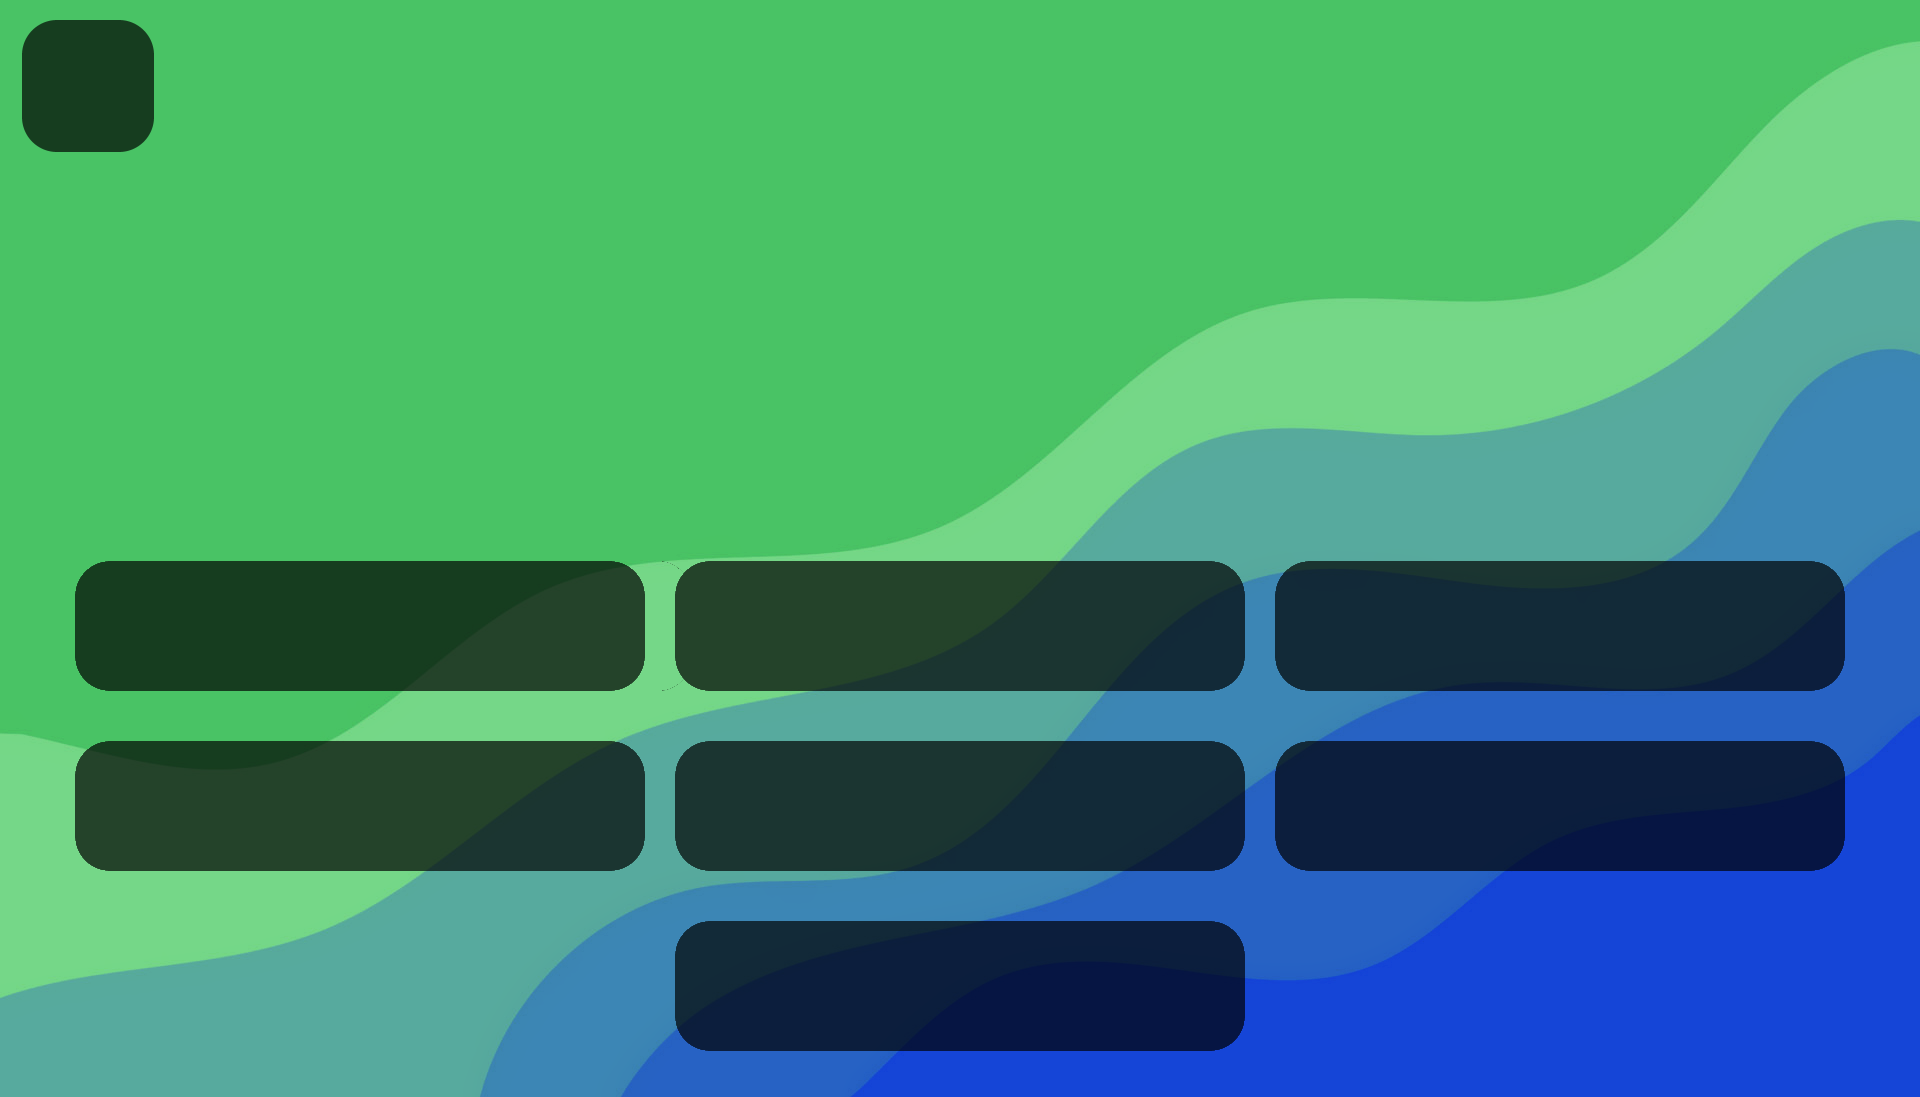
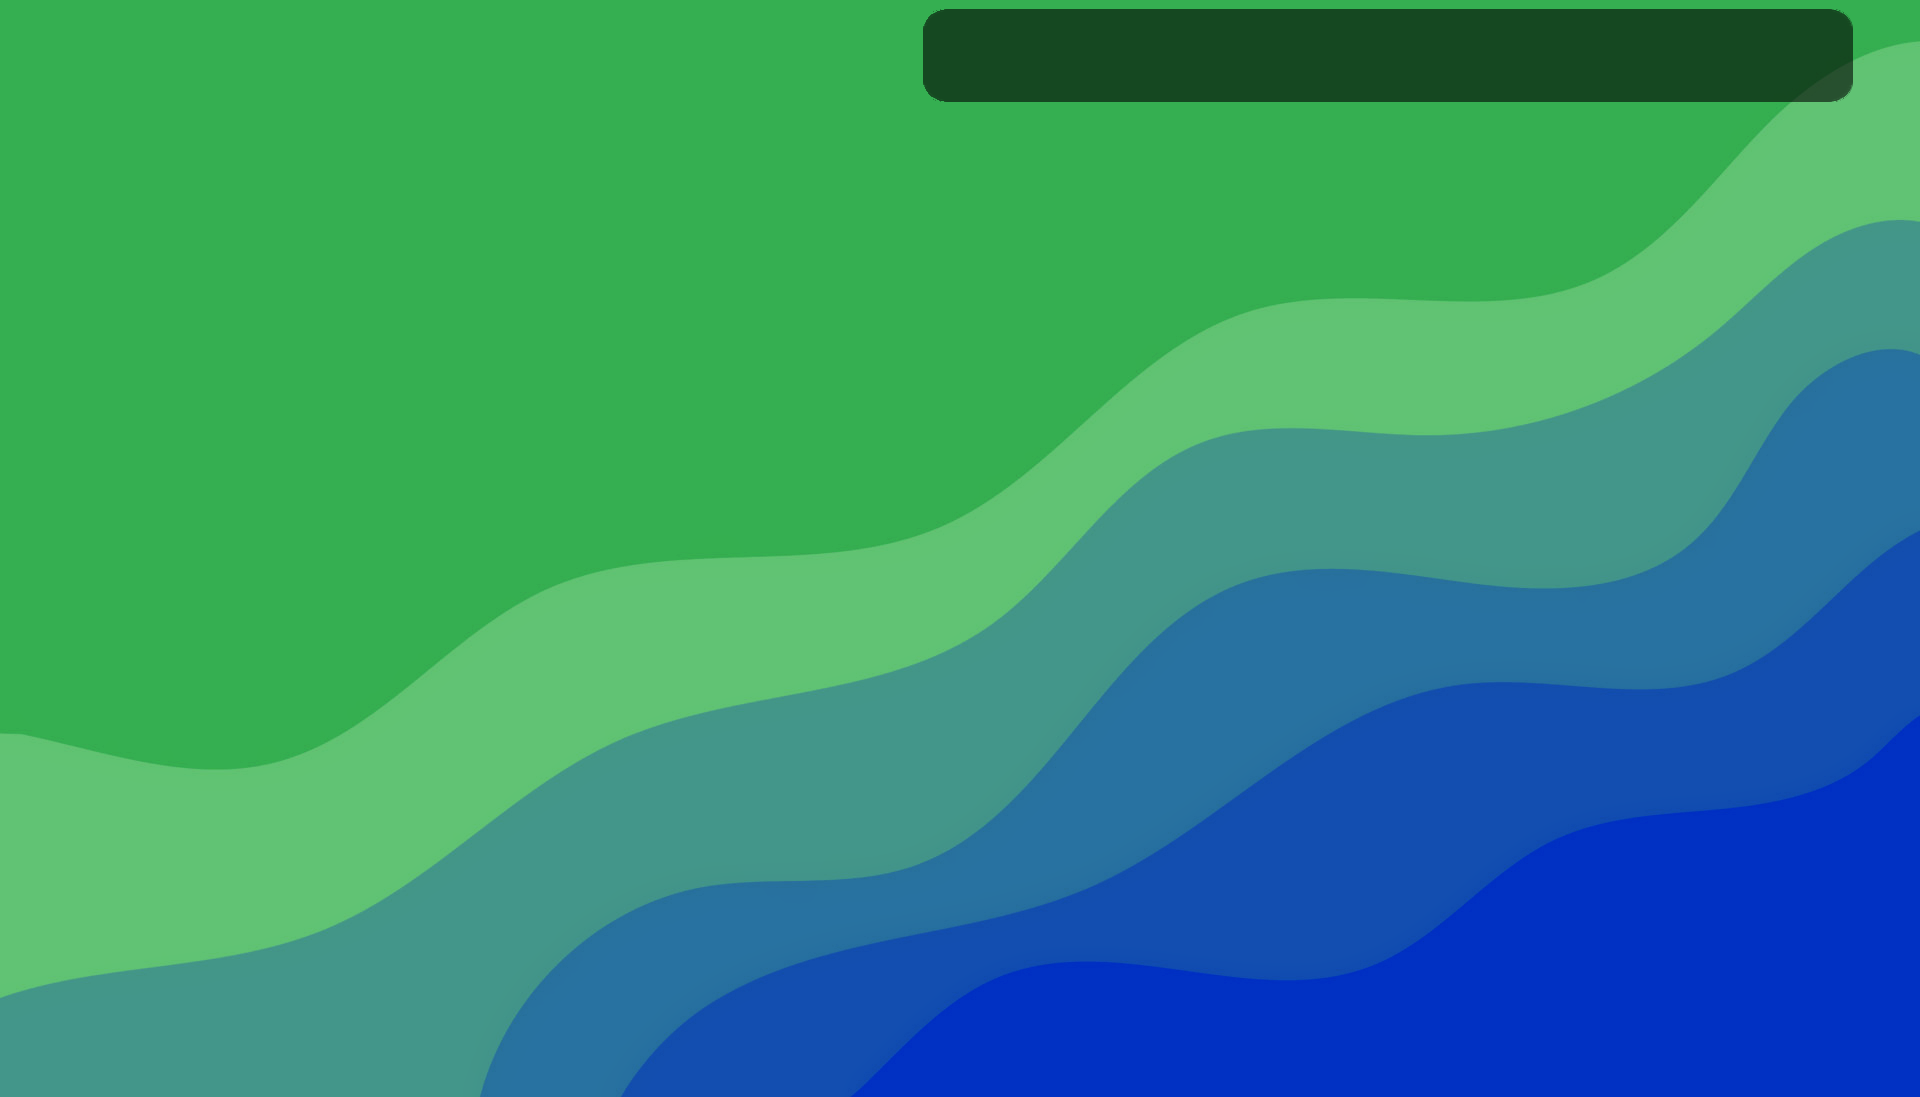
Updated leaderboard

diff --git a/Commands/leaderboard.js b/Commands/leaderboard.js
@@ -15,7 +15,7 @@ const WHITE = '#ffffff'
 registerFont('./Fonts/Signika-Bold.ttf', { family: 'Signika' })
 const FONT_FAMILY_SIGNIKA = 'Signika'
 
-const canvas = new Canvas(1920, 1097)
+const canvas = new Canvas(500, 700)
 const context = canvas.getContext("2d")
 
 const statsSchema = require('../Models/statsSchema')
@@ -105,7 +105,7 @@ module.exports = {
                 // So that it will not exceed the memory limit
                 const sort = { maxStreak: -1 }
                 const results = await statsSchema.find({ userID: { $ne: '333664530582208513' } }).sort(sort).limit(10)
-                await getTopStreak(client, interaction, results, canvas, context, actionRowEnabled)
+                await getTopStreakBest(client, interaction, results, canvas, context, actionRowEnabled)
                 streakBestLeaderboard = false
             }
             if (streakCurrentLeaderboard) {
@@ -115,7 +115,7 @@ module.exports = {
                 // So that it will not exceed the memory limit
                 const sort = { currentStreak: -1 }
                 const results = await statsSchema.find({ userID: { $ne: '333664530582208513' } }).sort(sort).limit(10)
-                await getTopStreak(client, interaction, results, canvas, context, actionRowEnabled)
+                await getTopStreakCurrent(client, interaction, results, canvas, context, actionRowEnabled)
                 streakCurrentLeaderboard = false
             }
         })
@@ -127,49 +127,76 @@ module.exports = {
 
 async function getTopWins(client, interaction, results, canvas, context, actionRow) {
     let background = await loadImage('./Images/background_leaderboard.png')
-    context.drawImage(background, 0, 0, 1920, 1097)
+    context.drawImage(background, -400, 0, 900, 700) // x = -400 offset
+    // emoji
     let trophy = await loadImage('./Images/trophy.png')
-    context.drawImage(trophy, 34, 29, 110, 110)
+    context.drawImage(trophy, canvas.width / 2 + 95, canvas.height / 2 - 335, 40, 40)
+    context.drawImage(trophy, canvas.width / 2 - 130, canvas.height / 2 - 335, 40, 40)
+    // title
+    context.fillStyle = WHITE
+    context.textAlign = "center"
+    context.font = `bold 35px ${FONT_FAMILY_SIGNIKA}`
+    context.fillText('TOP WINS', canvas.width / 2, canvas.height / 2 - 305)
+    // top players
     let totalPlayers = await statsSchema.count()
-    let count = 3, x = 1920 / 2 - 600, y = 1097 / 2 + 90
+    let x = canvas.width / 2 - 190, y = canvas.height / 2 - 20
     for (let i = 0; i < results.length; ++i) {
-        context.fillStyle = WHITE
-        context.textAlign = "center"
-        context.font = `bold 65px ${FONT_FAMILY_SIGNIKA}`
+        context.textAlign = "left"
+        context.font = `bold 35px ${FONT_FAMILY_SIGNIKA}`
         if (i === 10) {
             break
         }
         let id = results[i].userID
         const fetchUser = await client.users.fetch(id)
         if (i === 0) {
-            context.fillText(`${fetchUser.username}`, canvas.width / 2, canvas.height / 2 - 480)
+            // username
+            context.fillText(`${fetchUser.username}`, canvas.width / 2 - 120, canvas.height / 2 - 220)
+            // games won
+            context.font = `bold 25px ${FONT_FAMILY_SIGNIKA}`
+            context.textAlign = "right"
+            context.fillText(`${results[i].gamesWon} wins`, canvas.width - 30, canvas.height / 2 - 220)
+            // medal
             let image = await loadImage('./Images/1st_place_medal.png')
-            context.drawImage(image, canvas.width / 2 - 100, canvas.height / 2 - 450, 200, 200)
+            context.drawImage(image, canvas.width / 2 - 180, canvas.height / 2 - 255, 50, 50)
             continue
         }
         if (i === 1) {
-            context.fillText(`${fetchUser.username}`, canvas.width / 2 - 500, canvas.height / 2 - 280)
+            // username
+            context.fillText(`${fetchUser.username}`, canvas.width / 2 - 120, canvas.height / 2 - 170)
+            // games won
+            context.font = `bold 25px ${FONT_FAMILY_SIGNIKA}`
+            context.textAlign = "right"
+            context.fillText(`${results[i].gamesWon} wins`, canvas.width - 30, canvas.height / 2 - 170)
+            // medal
             let image = await loadImage('./Images/2nd_place_medal.png')
-            context.drawImage(image, canvas.width / 2 - 600, canvas.height / 2 - 250, 200, 200)
+            context.drawImage(image, canvas.width / 2 - 180, canvas.height / 2 - 205, 50, 50)
             continue
         }
         if (i === 2) {
-            context.fillText(`${fetchUser.username}`, canvas.width / 2 + 500, canvas.height / 2 - 280)
+            // username
+            context.fillText(`${fetchUser.username}`, canvas.width / 2 - 120, canvas.height / 2 - 120)
+            // games won
+            context.font = `bold 25px ${FONT_FAMILY_SIGNIKA}`
+            context.textAlign = "right"
+            context.fillText(`${results[i].gamesWon} wins`, canvas.width - 30, canvas.height / 2 - 120)
+            // medal
             let image = await loadImage('./Images/3rd_place_medal.png')
-            context.drawImage(image, canvas.width / 2 + 400, canvas.height / 2 - 250, 200, 200)
+            context.drawImage(image, canvas.width / 2 - 180, canvas.height / 2 - 155, 50, 50)
             continue
         }
-        count++
-        if (count === 10) {
-            x += 600
-        }
-        context.font = `bold 50px ${FONT_FAMILY_SIGNIKA}`
+        context.font = `bold 27px ${FONT_FAMILY_SIGNIKA}` // for top 4...10
+        // username
         context.fillText(`${fetchUser.username}`, x, y)
-        x += 600
-        if (count % 3 == 0) { // decrease height
-            y += 180
-            x = 1920 / 2 - 600
+        if (i == 9) {
+            context.fillText(`${i + 1}.`, 10, y)
+        } else {
+            context.fillText(`${i + 1}.`, 25, y)
         }
+        // games won
+        context.font = `bold 25px ${FONT_FAMILY_SIGNIKA}`
+        context.textAlign = "right"
+        context.fillText(`${results[i].gamesWon} wins`, canvas.width - 30, y)
+        y += 55
     }
     const file = new AttachmentBuilder(await canvas.toBuffer(), { name: 'leaderboard.png' })
     const embed = new EmbedBuilder()
@@ -182,51 +209,165 @@ async function getTopWins(client, interaction, results, canvas, context, actionR
     return await interaction.editReply({ content: '', embeds: [embed], files: [file], components: [actionRow] })
 }
 
-async function getTopStreak(client, interaction, results, canvas, context, actionRow) {
+async function getTopStreakBest(client, interaction, results, canvas, context, actionRow) {
     let background = await loadImage('./Images/background_leaderboard.png')
-    context.drawImage(background, 0, 0, 1920, 1097)
+    context.drawImage(background, -400, 0, 900, 700) // x = -400 offset
+    // emoji
     let fire = await loadImage('./Images/fire_color.png')
-    context.drawImage(fire, 34, 29, 110, 110)
+    let sparkles = await loadImage('./Images/sparkles_color.png')
+    context.drawImage(fire, canvas.width / 2 + 140, canvas.height / 2 - 335, 40, 40)
+    context.drawImage(fire, canvas.width / 2 - 175, canvas.height / 2 - 335, 40, 40)
+    context.drawImage(sparkles, canvas.width / 2 - 147, canvas.height / 2 - 340, 20, 20)
+    context.drawImage(sparkles, canvas.width / 2 + 168, canvas.height / 2 - 340, 20, 20)
+    // title
+    context.fillStyle = WHITE
+    context.textAlign = "center"
+    context.font = `bold 33px ${FONT_FAMILY_SIGNIKA}`
+    context.fillText('TOP BEST STREAK', canvas.width / 2, canvas.height / 2 - 305)
+    // top players
     let totalPlayers = await statsSchema.count()
-    let count = 3, x = 1920 / 2 - 600, y = 1097 / 2 + 90
+    let x = canvas.width / 2 - 190, y = canvas.height / 2 - 20
     for (let i = 0; i < results.length; ++i) {
-        context.fillStyle = WHITE
-        context.textAlign = "center"
-        context.font = `bold 65px ${FONT_FAMILY_SIGNIKA}`
+        context.textAlign = "left"
+        context.font = `bold 35px ${FONT_FAMILY_SIGNIKA}`
         if (i === 10) {
             break
         }
         let id = results[i].userID
         const fetchUser = await client.users.fetch(id)
         if (i === 0) {
-            context.fillText(`${fetchUser.username}`, canvas.width / 2, canvas.height / 2 - 480)
+            // username
+            context.fillText(`${fetchUser.username}`, canvas.width / 2 - 120, canvas.height / 2 - 220)
+            // max streak
+            context.font = `bold 25px ${FONT_FAMILY_SIGNIKA}`
+            context.textAlign = "right"
+            context.fillText(`${results[i].maxStreak} streak`, canvas.width - 30, canvas.height / 2 - 220)
+            // medal
             let image = await loadImage('./Images/1st_place_medal.png')
-            context.drawImage(image, canvas.width / 2 - 100, canvas.height / 2 - 450, 200, 200)
+            context.drawImage(image, canvas.width / 2 - 180, canvas.height / 2 - 255, 50, 50)
             continue
         }
         if (i === 1) {
-            context.fillText(`${fetchUser.username}`, canvas.width / 2 - 500, canvas.height / 2 - 280)
+            // username
+            context.fillText(`${fetchUser.username}`, canvas.width / 2 - 120, canvas.height / 2 - 170)
+            // max streak
+            context.font = `bold 25px ${FONT_FAMILY_SIGNIKA}`
+            context.textAlign = "right"
+            context.fillText(`${results[i].maxStreak} streak`, canvas.width - 30, canvas.height / 2 - 170)
+            // medal
             let image = await loadImage('./Images/2nd_place_medal.png')
-            context.drawImage(image, canvas.width / 2 - 600, canvas.height / 2 - 250, 200, 200)
+            context.drawImage(image, canvas.width / 2 - 180, canvas.height / 2 - 205, 50, 50)
             continue
         }
         if (i === 2) {
-            context.fillText(`${fetchUser.username}`, canvas.width / 2 + 500, canvas.height / 2 - 280)
+            // username
+            context.fillText(`${fetchUser.username}`, canvas.width / 2 - 120, canvas.height / 2 - 120)
+            // max streak
+            context.font = `bold 25px ${FONT_FAMILY_SIGNIKA}`
+            context.textAlign = "right"
+            context.fillText(`${results[i].maxStreak} streak`, canvas.width - 30, canvas.height / 2 - 120)
+            // medal
             let image = await loadImage('./Images/3rd_place_medal.png')
-            context.drawImage(image, canvas.width / 2 + 400, canvas.height / 2 - 250, 200, 200)
+            context.drawImage(image, canvas.width / 2 - 180, canvas.height / 2 - 155, 50, 50)
             continue
         }
-        count++
-        if (count === 10) {
-            x += 600
-        }
-        context.font = `bold 50px ${FONT_FAMILY_SIGNIKA}`
+        context.font = `bold 27px ${FONT_FAMILY_SIGNIKA}` // for top 4...10
+        // username
         context.fillText(`${fetchUser.username}`, x, y)
-        x += 600
-        if (count % 3 == 0) { // decrease height
-            y += 180
-            x = 1920 / 2 - 600
+        if (i == 9) {
+            context.fillText(`${i + 1}.`, 10, y)
+        } else {
+            context.fillText(`${i + 1}.`, 25, y)
         }
+        // max streak
+        context.font = `bold 25px ${FONT_FAMILY_SIGNIKA}` // for top 4...10
+        context.textAlign = "right"
+        context.fillText(`${results[i].maxStreak} streak`, canvas.width - 30, y)
+        y += 55
+    }
+    const file = new AttachmentBuilder(await canvas.toBuffer(), { name: 'leaderboard.png' })
+    const embed = new EmbedBuilder()
+        .setImage('attachment://leaderboard.png')
+        .setColor(GREEN)
+        .setTitle('LEADERBOARD')
+        .setFooter({
+            text: `Top ${results.length} out of ${totalPlayers} players`
+        })
+    return await interaction.editReply({ content: '', embeds: [embed], files: [file], components: [actionRow] })
+}
+
+async function getTopStreakCurrent(client, interaction, results, canvas, context, actionRow) {
+    let background = await loadImage('./Images/background_leaderboard.png')
+    context.drawImage(background, -400, 0, 900, 700) // x = -400 offset
+    // emoji
+    let fire = await loadImage('./Images/fire_color.png')
+    context.drawImage(fire, canvas.width / 2 + 170, canvas.height / 2 - 335, 40, 40)
+    context.drawImage(fire, canvas.width / 2 - 205, canvas.height / 2 - 335, 40, 40)
+    // title
+    context.fillStyle = WHITE
+    context.textAlign = "center"
+    context.font = `bold 33px ${FONT_FAMILY_SIGNIKA}`
+    context.fillText('TOP CURRENT STREAK', canvas.width / 2, canvas.height / 2 - 305)
+    // top players
+    let totalPlayers = await statsSchema.count()
+    let x = canvas.width / 2 - 190, y = canvas.height / 2 - 20
+    for (let i = 0; i < results.length; ++i) {
+        context.textAlign = "left"
+        context.font = `bold 35px ${FONT_FAMILY_SIGNIKA}`
+        if (i === 10) {
+            break
+        }
+        let id = results[i].userID
+        const fetchUser = await client.users.fetch(id)
+        if (i === 0) {
+            // username
+            context.fillText(`${fetchUser.username}`, canvas.width / 2 - 120, canvas.height / 2 - 220)
+            // current streak
+            context.font = `bold 25px ${FONT_FAMILY_SIGNIKA}`
+            context.textAlign = "right"
+            context.fillText(`${results[i].currentStreak} streak`, canvas.width - 30, canvas.height / 2 - 220)
+            // medal
+            let image = await loadImage('./Images/1st_place_medal.png')
+            context.drawImage(image, canvas.width / 2 - 180, canvas.height / 2 - 255, 50, 50)
+            continue
+        }
+        if (i === 1) {
+            // username
+            context.fillText(`${fetchUser.username}`, canvas.width / 2 - 120, canvas.height / 2 - 170)
+            // current streak
+            context.font = `bold 25px ${FONT_FAMILY_SIGNIKA}`
+            context.textAlign = "right"
+            context.fillText(`${results[i].currentStreak} streak`, canvas.width - 30, canvas.height / 2 - 170)
+            // medal
+            let image = await loadImage('./Images/2nd_place_medal.png')
+            context.drawImage(image, canvas.width / 2 - 180, canvas.height / 2 - 205, 50, 50)
+            continue
+        }
+        if (i === 2) {
+            // username
+            context.fillText(`${fetchUser.username}`, canvas.width / 2 - 120, canvas.height / 2 - 120)
+            // current streak
+            context.font = `bold 25px ${FONT_FAMILY_SIGNIKA}`
+            context.textAlign = "right"
+            context.fillText(`${results[i].currentStreak} streak`, canvas.width - 30, canvas.height / 2 - 120)
+            // medal
+            let image = await loadImage('./Images/3rd_place_medal.png')
+            context.drawImage(image, canvas.width / 2 - 180, canvas.height / 2 - 155, 50, 50)
+            continue
+        }
+        context.font = `bold 27px ${FONT_FAMILY_SIGNIKA}` // for top 4...10
+        // username
+        context.fillText(`${fetchUser.username}`, x, y)
+        if (i == 9) {
+            context.fillText(`${i + 1}.`, 10, y)
+        } else {
+            context.fillText(`${i + 1}.`, 25, y)
+        }
+        // current streak
+        context.font = `bold 25px ${FONT_FAMILY_SIGNIKA}` // for top 4...10
+        context.textAlign = "right"
+        context.fillText(`${results[i].currentStreak} streak`, canvas.width - 30, y)
+        y += 55
     }
     const file = new AttachmentBuilder(await canvas.toBuffer(), { name: 'leaderboard.png' })
     const embed = new EmbedBuilder()
